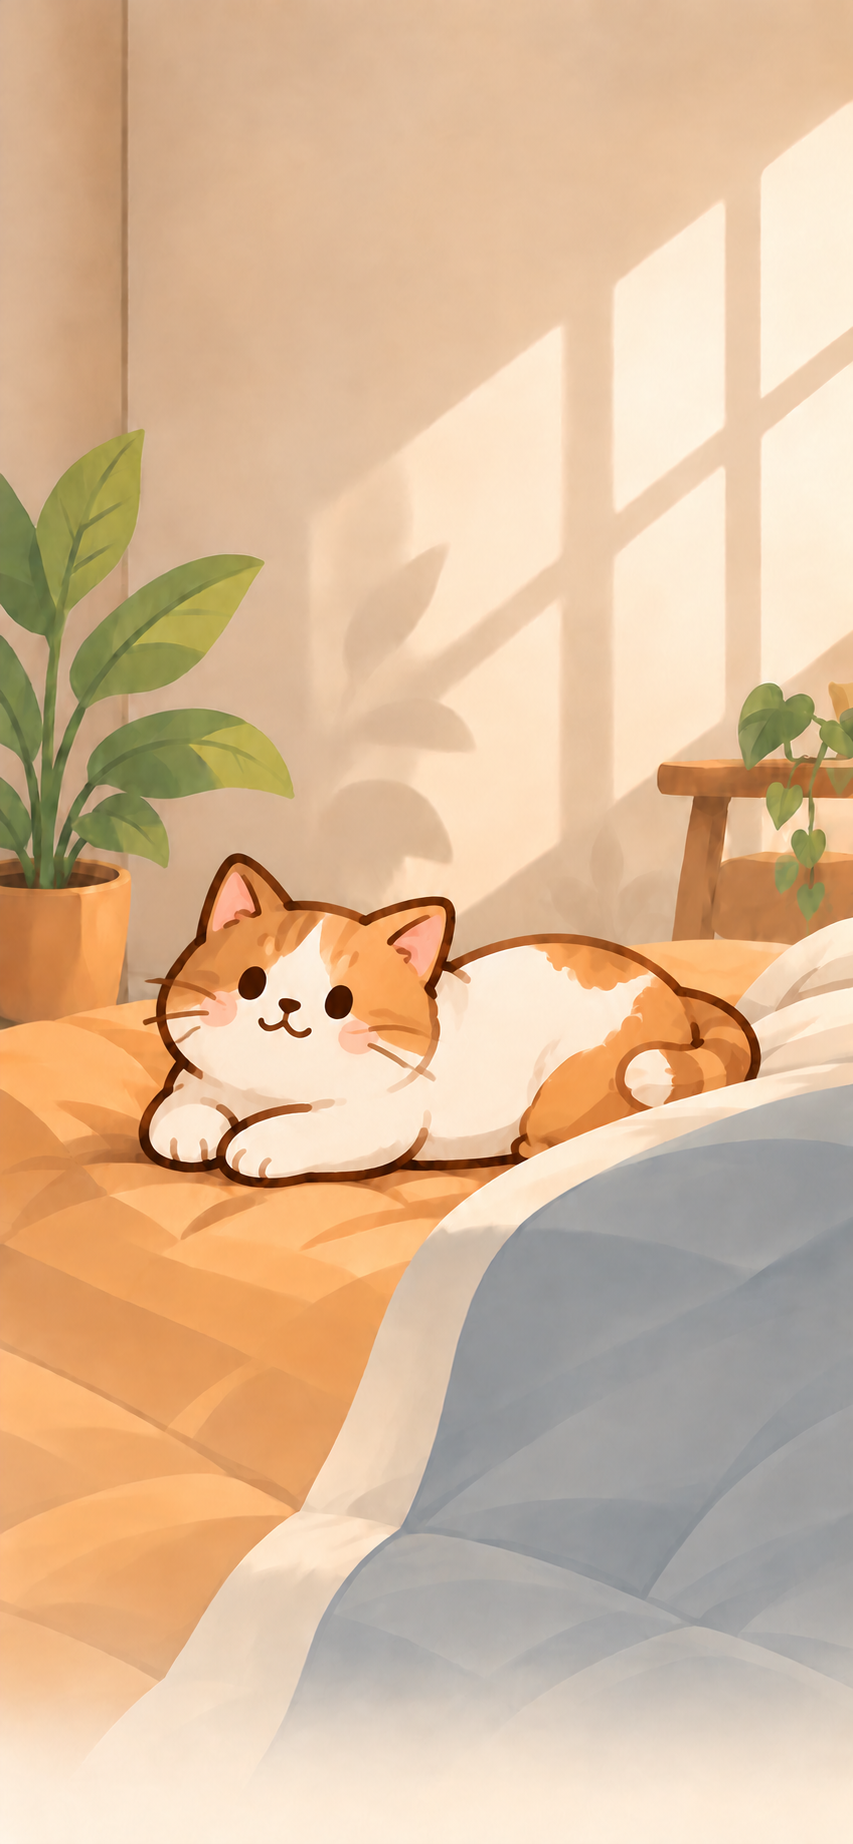
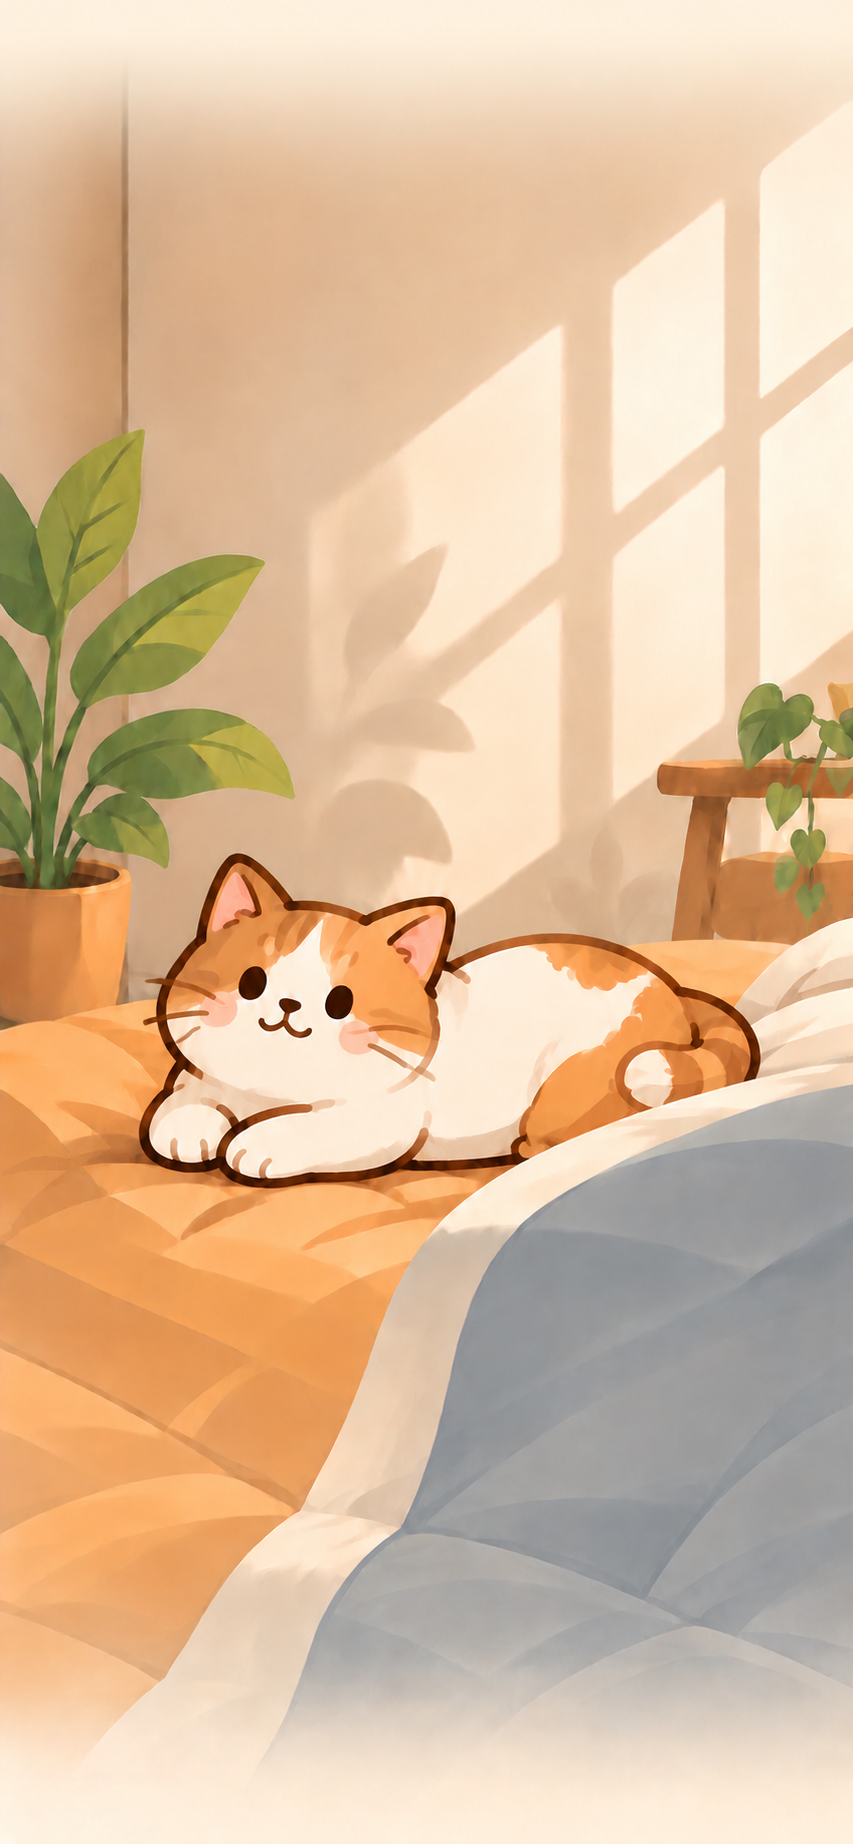
UI Fixes 2 Oct 27 - Sean

Changed region(s): [[0.0, 0.0, 1.0, 0.0927]]

diff --git a/components/calendar/CalendarDay.tsx b/components/calendar/CalendarDay.tsx
@@ -46,8 +46,10 @@ export default function CalendarDay({
         ]}
       >
         {emotion ? <EmotionIcon emotion={emotion} size={35} /> : null}
+        {birthdayCount > 0 ? <Text testID="calendar-birthday-marker" style={[styles.eventMarker, styles.birthdayMarker]} accessible={false}>🎂</Text> : null}
+        {reminderCount > 0 ? <Text testID="calendar-reminder-marker" style={[styles.eventMarker, styles.reminderMarker]} accessible={false}>🐾</Text> : null}
       </View>
-      <Text style={[styles.dayLabel, !inCurrentMonth && styles.dayLabelMuted]}>{day}{birthdayCount ? " 🎂" : ""}{reminderCount ? " · 🐾" : ""}</Text>
+      <Text style={[styles.dayLabel, !inCurrentMonth && styles.dayLabelMuted]}>{day}</Text>
       {recordCount > 1 ? <Text style={styles.count}>{recordCount}</Text> : null}
     </TouchableOpacity>
   );
@@ -57,6 +59,10 @@ const styles = StyleSheet.create({
   wrapper: { alignItems: "center", width: `${100 / 7}%`, minHeight: 60, marginBottom: spacing.xs },
   count: { ...typography.caption, position: "absolute", top: 0, right: 0, borderRadius: radii.pill, paddingHorizontal: 3, backgroundColor: colors.textPrimary, color: colors.white },
   circle: { width: 40, height: 40, borderRadius: radii.pill, alignItems: "center", justifyContent: "center" },
+  eventMarker: { position: "absolute", bottom: 0, width: 16, height: 16, lineHeight: 16, fontSize: 11,
+    textAlign: "center", backgroundColor: colors.background, borderRadius: radii.pill },
+  birthdayMarker: { left: -3 },
+  reminderMarker: { right: -3 },
   circleEmpty: { backgroundColor: colors.card, borderWidth: 1, borderColor: colors.border },
   circleSelected: { borderWidth: 2, borderColor: colors.textPrimary },
   circleToday: { borderWidth: 2, borderColor: colors.primary },

diff --git a/app/(screens)/(tabs)/calendar.tsx b/app/(screens)/(tabs)/calendar.tsx
@@ -117,6 +117,8 @@ export default function Calendar() {
                 <Ionicons name="chevron-down" size={16} color={colors.textPrimary} />
               </TouchableOpacity>
             </View>
+            <WellnessCalendarSection date={selectedDate} catId={filterId} blocked={filterVisible}
+              onOpenContext={(date, catId) => { selectDate(date); setSelectedCatId(catId); }} />
             {birthdays.map((cat) => (
               <View key={cat.id} style={styles.birthday} accessible accessibilityLabel={`${cat.name}, Birthday, All Day`}>
                 <Ionicons name="gift-outline" size={22} color={colors.textPrimary} />
@@ -124,8 +126,6 @@ export default function Calendar() {
                 <Text style={styles.allDay}>All Day</Text>
               </View>
             ))}
-            <WellnessCalendarSection date={selectedDate} catId={filterId} blocked={filterVisible}
-              onOpenContext={(date, catId) => { selectDate(date); setSelectedCatId(catId); }} />
             {records.map((record) => (
               <DetectionListRow key={record.id} catName={selectCatForDetection(state, record)?.name ?? "Unknown Cats"}
                 emotion={record.emotion} time={formatTime(record.recordedAt)}
